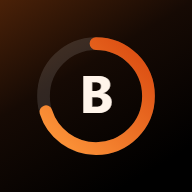
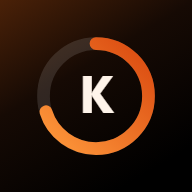
Umbenennung in Kalor

Changed region(s): [[0.4688, 0.375, 0.5938, 0.5938], [0.4062, 0.375, 0.4375, 0.5938]]

diff --git a/app.js b/app.js
@@ -690,7 +690,7 @@ function readProfile(values) {
 function renderOnboarding(app) {
   const values = { sex: '', job: 'sitzend', goal: '' };
   app.innerHTML = `
-    <div class="logo" style="margin-top:20px">BILANZ</div>
+    <div class="logo" style="margin-top:20px">KALOR</div>
     <p class="muted" style="margin-top:4px">Training rein, Essen rein, fertig. Erst kurz zu dir.</p>
     <div class="step">1 · KÖRPERDATEN</div>
     <div class="card" style="margin-top:8px">${profileFields(values)}</div>
@@ -712,7 +712,7 @@ function renderOnboarding(app) {
     const c = calc();
     db.profile = null; // erst nach Bestätigung speichern
     app.innerHTML = `
-      <div class="logo" style="margin-top:20px">BILANZ</div>
+      <div class="logo" style="margin-top:20px">KALOR</div>
       <div class="step">3 · DEIN TAGESZIEL</div>
       <div class="card target-box" style="margin-top:8px">
         <div class="big">${fmt(c.target)}</div>
@@ -825,9 +825,9 @@ async function exportData() {
     photos: await photoDb.all(),
   };
   const blob = new Blob([JSON.stringify(data)], { type: 'application/json' });
-  const file = new File([blob], `bilanz-${dayKey()}.json`, { type: 'application/json' });
+  const file = new File([blob], `kalor-${dayKey()}.json`, { type: 'application/json' });
   if (navigator.canShare?.({ files: [file] })) {
-    try { await navigator.share({ files: [file], title: 'Bilanz-Sicherung' }); return; } catch { /* abgebrochen → Download */ }
+    try { await navigator.share({ files: [file], title: 'Kalor-Sicherung' }); return; } catch { /* abgebrochen → Download */ }
   }
   const a = document.createElement('a');
   a.href = URL.createObjectURL(blob);
@@ -842,7 +842,7 @@ async function importData(ev) {
   if (!file) return;
   try {
     const data = JSON.parse(await file.text());
-    if (data.app !== 'bilanz') throw new Error('Keine Bilanz-Sicherung.');
+    if (data.app !== 'bilanz') throw new Error('Keine Kalor-Sicherung.');
     if (!confirm('Aktuelle Daten durch die Sicherung ersetzen?')) return;
     db.profile = data.profile;
     db.entries = data.entries || [];

diff --git a/index.html b/index.html
@@ -4,7 +4,7 @@
 <meta charset="utf-8">
 <meta name="viewport" content="width=device-width, initial-scale=1, viewport-fit=cover">
 <meta name="theme-color" content="#1a0c05">
-<title>Bilanz</title>
+<title>Kalor</title>
 <link rel="manifest" href="manifest.webmanifest">
 <link rel="icon" href="icons/icon-192.png">
 <link rel="apple-touch-icon" href="icons/icon-192.png">

diff --git a/sw.js b/sw.js
@@ -1,5 +1,5 @@
 // App-Shell offline verfügbar machen. API-Aufrufe (Gemini, Open Food Facts) gehen immer ins Netz.
-const CACHE = 'bilanz-v4';
+const CACHE = 'kalor-v5';
 const SHELL = ['./', 'index.html', 'style.css', 'app.js', 'manifest.webmanifest', 'icons/icon-192.png', 'icons/icon-512.png'];
 
 self.addEventListener('install', e => {
